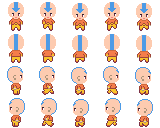
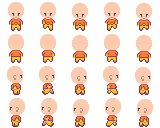
added char pngs

diff --git a/lib/assets.dart b/lib/assets.dart
@@ -1,7 +1,7 @@
 // GENERATED CODE - DO NOT MODIFY BY HAND
 
 // **************************************************************************
-// Total assets: 228.
+// Total assets: 235.
 // Generated by https://pub.dev/packages/assets_gen.
 // **************************************************************************
 
@@ -159,11 +159,23 @@ class Assets {
   static const String assets_images_npcs_asimov_png = 'assets/images/npcs/asimov.png';
   static const String gomiland$assets_images_npcs_asimov_png = 'packages/gomiland/assets/images/npcs/asimov.png';
 
+  static const String assets_images_npcs_boss_png = 'assets/images/npcs/boss.png';
+  static const String gomiland$assets_images_npcs_boss_png = 'packages/gomiland/assets/images/npcs/boss.png';
+
   static const String assets_images_npcs_boy_png = 'assets/images/npcs/boy.png';
   static const String gomiland$assets_images_npcs_boy_png = 'packages/gomiland/assets/images/npcs/boy.png';
 
+  static const String assets_images_npcs_female_png = 'assets/images/npcs/female.png';
+  static const String gomiland$assets_images_npcs_female_png = 'packages/gomiland/assets/images/npcs/female.png';
+
+  static const String assets_images_npcs_girl_png = 'assets/images/npcs/girl.png';
+  static const String gomiland$assets_images_npcs_girl_png = 'packages/gomiland/assets/images/npcs/girl.png';
+
   static const String assets_images_npcs_himiko_png = 'assets/images/npcs/himiko.png';
   static const String gomiland$assets_images_npcs_himiko_png = 'packages/gomiland/assets/images/npcs/himiko.png';
+
+  static const String assets_images_npcs_man_png = 'assets/images/npcs/man.png';
+  static const String gomiland$assets_images_npcs_man_png = 'packages/gomiland/assets/images/npcs/man.png';
 
   static const String assets_images_npcs_manuka_png = 'assets/images/npcs/manuka.png';
   static const String gomiland$assets_images_npcs_manuka_png = 'packages/gomiland/assets/images/npcs/manuka.png';
@@ -173,6 +185,15 @@ class Assets {
 
   static const String assets_images_npcs_qianbi_png = 'assets/images/npcs/qianbi.png';
   static const String gomiland$assets_images_npcs_qianbi_png = 'packages/gomiland/assets/images/npcs/qianbi.png';
+
+  static const String assets_images_npcs_risa_png = 'assets/images/npcs/risa.png';
+  static const String gomiland$assets_images_npcs_risa_png = 'packages/gomiland/assets/images/npcs/risa.png';
+
+  static const String assets_images_npcs_stark_png = 'assets/images/npcs/stark.png';
+  static const String gomiland$assets_images_npcs_stark_png = 'packages/gomiland/assets/images/npcs/stark.png';
+
+  static const String assets_images_npcs_woman_png = 'assets/images/npcs/woman.png';
+  static const String gomiland$assets_images_npcs_woman_png = 'packages/gomiland/assets/images/npcs/woman.png';
 
   static const String assets_images_objects_general_sign_png = 'assets/images/objects/general_sign.png';
   static const String gomiland$assets_images_objects_general_sign_png = 'packages/gomiland/assets/images/objects/general_sign.png';

diff --git a/lib/game/scenes/hood_scene.dart b/lib/game/scenes/hood_scene.dart
@@ -274,7 +274,7 @@ class HoodMap extends Component with HasGameReference<GomilandGame> {
           await add(
             GeneralNpc(
               position: Vector2(npc.x, npc.y),
-              imgPath: Assets.assets_images_npcs_boy_png,
+              imgPath: Assets.assets_images_npcs_man_png,
               dialoguePath: Assets.assets_yarn_hood_npcs_yarn,
               npcName: NpcName.man,
             ),
@@ -283,7 +283,7 @@ class HoodMap extends Component with HasGameReference<GomilandGame> {
           await add(
             GeneralNpc(
               position: Vector2(npc.x, npc.y),
-              imgPath: Assets.assets_images_npcs_boy_png,
+              imgPath: Assets.assets_images_npcs_woman_png,
               dialoguePath: Assets.assets_yarn_hood_npcs_yarn,
               npcName: NpcName.woman,
             ),
@@ -303,7 +303,7 @@ class HoodMap extends Component with HasGameReference<GomilandGame> {
           await add(
             GeneralNpc(
               position: Vector2(npc.x, npc.y),
-              imgPath: Assets.assets_images_npcs_boy_png,
+              imgPath: Assets.assets_images_npcs_girl_png,
               dialoguePath: Assets.assets_yarn_hood_npcs_yarn,
               npcName: NpcName.girl,
             ),

diff --git a/lib/game/npcs/risa.dart b/lib/game/npcs/risa.dart
@@ -24,7 +24,7 @@ class Risa extends Npc with HasGameReference<GomilandGame> {
 
   @override
   void onLoad() async {
-    final image = await Flame.images.load(Assets.assets_images_npcs_qianbi_png);
+    final image = await Flame.images.load(Assets.assets_images_npcs_risa_png);
     final spriteSheet = SpriteSheet(
       image: image,
       srcSize: Vector2.all(tileSize),

diff --git a/lib/game/npcs/stark.dart b/lib/game/npcs/stark.dart
@@ -24,7 +24,7 @@ class Stark extends Npc with HasGameReference<GomilandGame> {
 
   @override
   void onLoad() async {
-    final image = await Flame.images.load(Assets.assets_images_npcs_qianbi_png);
+    final image = await Flame.images.load(Assets.assets_yarn_stark_yarn);
     final spriteSheet = SpriteSheet(
       image: image,
       srcSize: Vector2.all(tileSize),

diff --git a/lib/game/game.dart b/lib/game/game.dart
@@ -149,7 +149,6 @@ class GomilandGame extends FlameGame
     if (brightnessOverlays.isEmpty) {
       cameraComponent.viewport.add(brightnessOverlay);
     }
-    print(playerStateBloc.state.showControls);
     if (playerStateBloc.state.showControls) {
       _addPlayerControls();
     }
